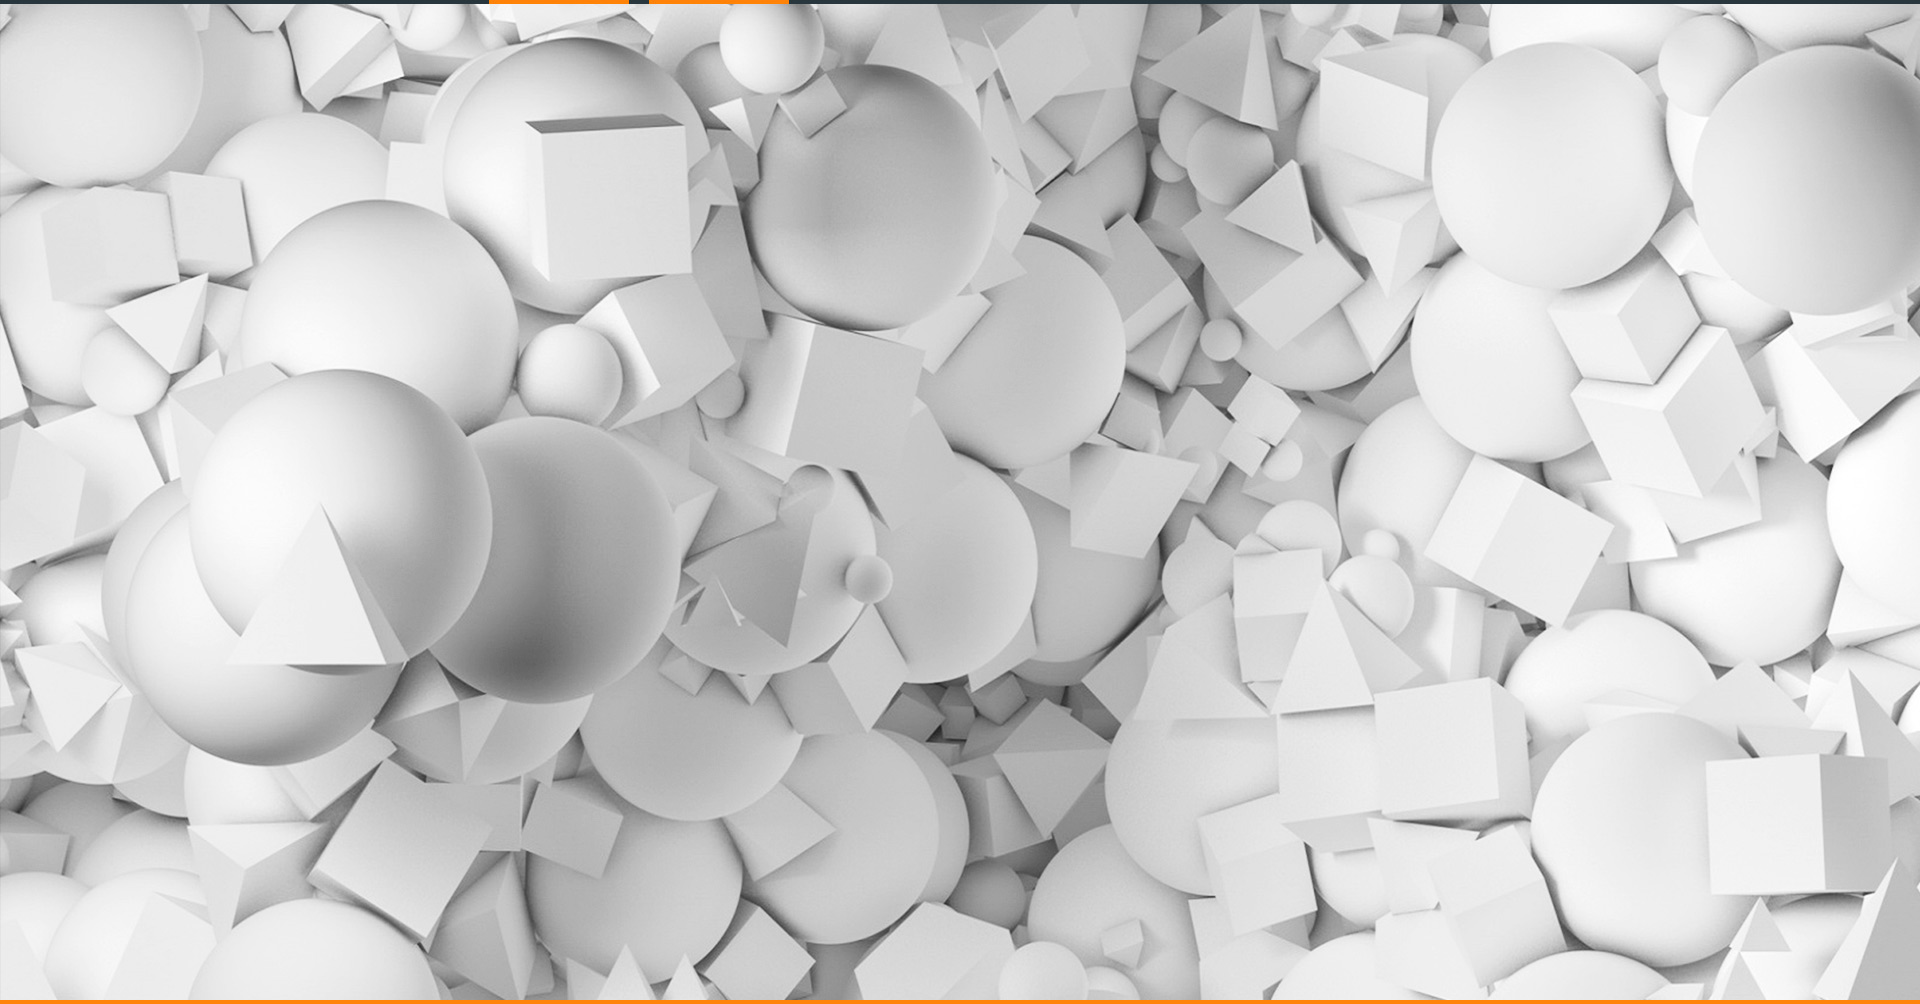
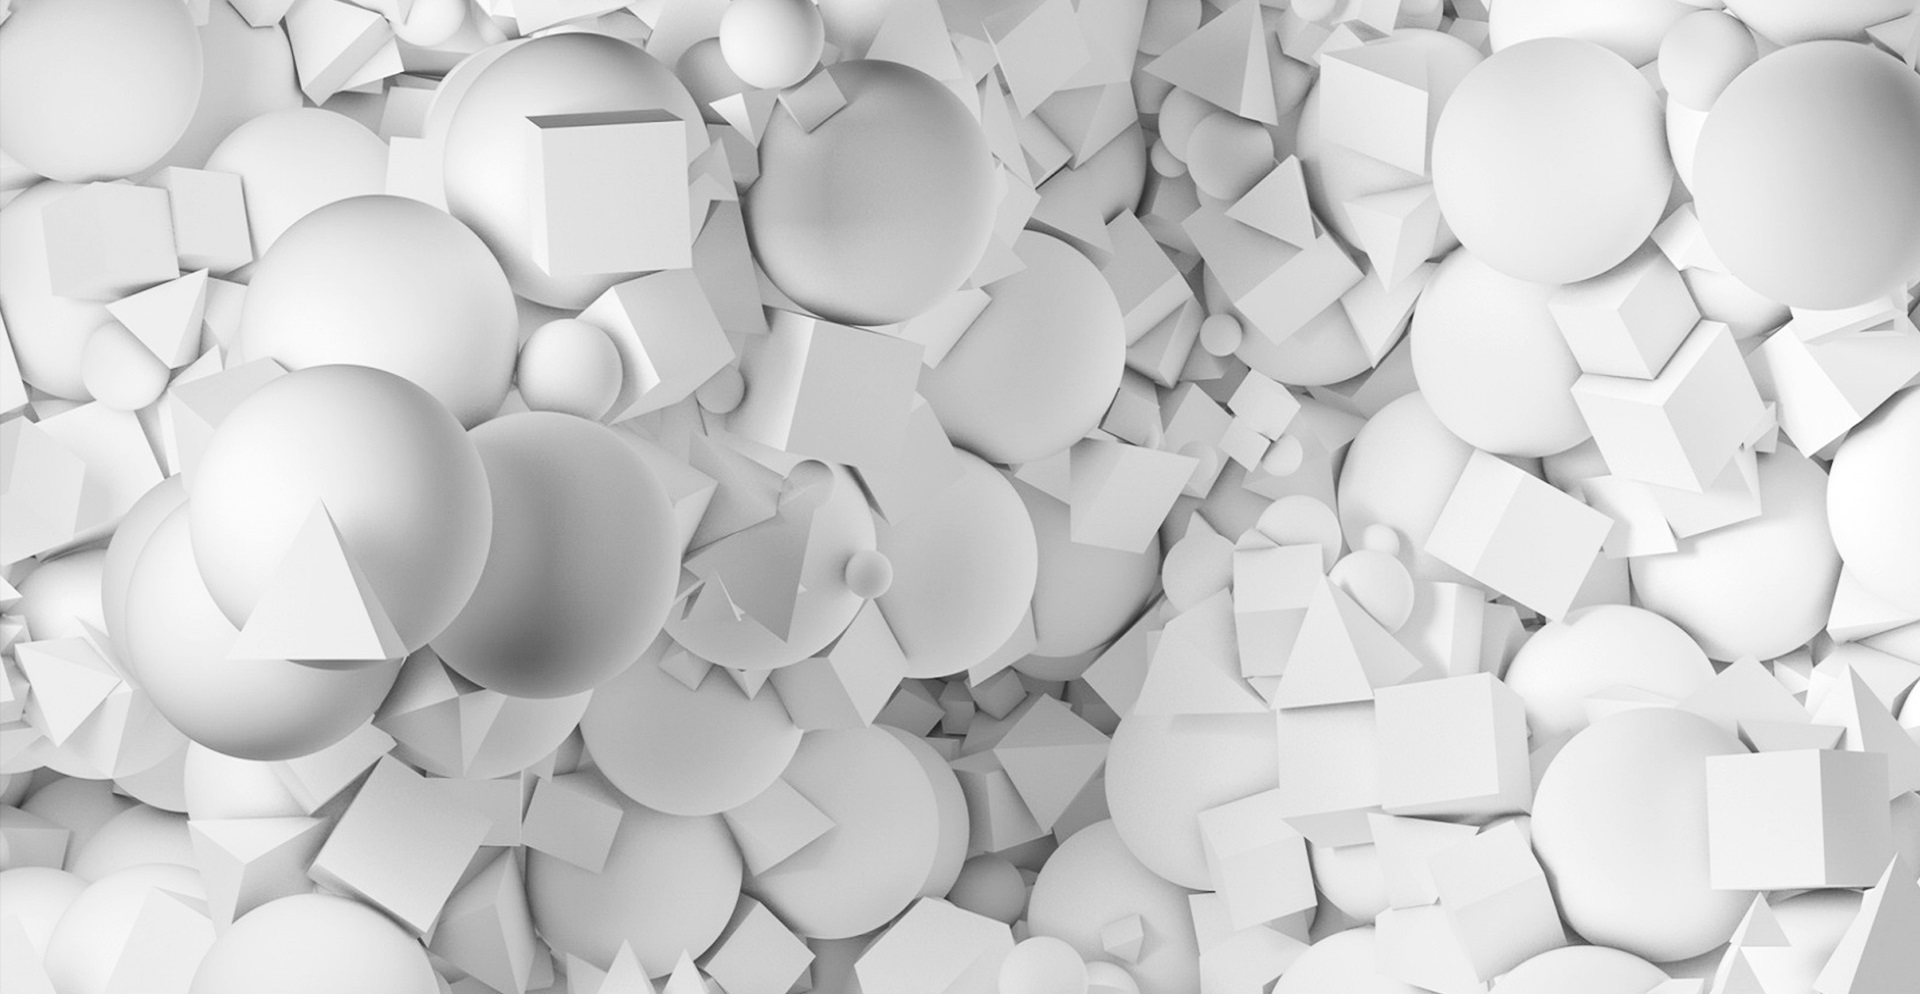
добавила картинки, позиционирование

diff --git a/style.less b/style.less
@@ -22,6 +22,10 @@ body{
 header, footer{
   background-color: @dark;
   color: @texts_on_dark_phone;
+  position: relative;
+}
+header{
+  border-bottom: 4px solid @dark;
 }
 header a, footer a{
   color: @texts_on_dark_phone;
@@ -57,6 +61,9 @@ h5{
   font-size: 16px;
   text-align: center;
 }
+footer h5{
+  color: @texts_on_dark_phone;
+}
 p{
   font-size: 18px;
 }
@@ -76,6 +83,20 @@ ul{
   margin: 0;
   padding: 0;
 }
+li{
+  list-style: none;
+  width: 140px;
+  height: 115px;
+}
+li a{
+  display: block;
+  width: 100%;
+  height: 100%;
+}
+header li a:hover, header li a:active{
+  background-color: @hover_blocks;
+  border-bottom: 4px solid @orange;
+}
 form{
   display: flex;
   flex-direction: column;
@@ -83,13 +104,19 @@ form{
 }
 .slider{
   text-transform: uppercase;
+  position: relative;
 }
 .subtitle {
   text-align: center;
+  max-width: 780px;
+  margin: auto;
 }
 .container{
   margin: 0 auto;
   max-width: 1510px;
+  text-align: center;
+}
+main .container{
   padding: 60px;
 }
 .flex-boxes{
@@ -97,6 +124,7 @@ form{
   flex-direction: row;
   justify-content: space-between;
   flex-wrap: wrap;
+  align-items: center;
 }
 .copyright{
   background-color: @copyright;
@@ -110,6 +138,11 @@ form{
 .one-advantage{
   width:280px;
 }
+.on_top{
+  position: absolute;
+  right: 10%;
+  top:-65px;
+}
 #our_work{
   background-color: @light;
   background-image: url("images/Landing_tech_03.jpg");
@@ -120,4 +153,39 @@ form{
 }
 #general_slider{
   background-image: url("images/Landing_tech_02.jpg");
+}
+footer section{
+  background-image: url("images/Landing_tech_05.png");
+}
+footer .address p, footer .address h5{
+  text-align: right;
+}
+.make_request{
+  background-color: @orange;
+  width: 400px;
+  height: 80px;
+  border-radius: 10px;
+  display: block;
+  color: @texts_on_dark_phone;
+  text-transform: uppercase;
+  font-weight: bold;
+  font-size: 24px;
+  margin: auto;
+}
+#general_slider .slider::before, #general_slider .slider::after{
+  content: '';
+  width:45px;
+  height: 80px;
+  display: block;
+  position: absolute;
+}
+#general_slider .slider::before{
+  background-image: url("images/Landing_tech_07.png");
+  left:100px;
+  top:40%;
+}
+#general_slider .slider::after{
+  background-image: url("images/Landing_tech_09.png");
+  right: 100px;
+  top:40%;
 }

diff --git a/index.html b/index.html
@@ -15,7 +15,7 @@
         </a>
         <nav>
            <ul class="flex-boxes">
-             <li><a href="#on_top">Главная</a></li>
+             <li><a href="index.html">Главная</a></li>
              <li><a href="#our_work">Портфолио</a></li>
              <li><a href="#our_advantares">Преимущества</a></li>
              <li><a href="#our_advantares">Схема работы</a></li>
@@ -38,7 +38,7 @@
             <p class="subtitle">Lorem ipsum dolor sit amet, consectetur adipisicing
               elit, sed do eiusmod tempor incididunt
               ut labore et doloremagna aliqua</p>
-            <a href="#">оформить заявку</a>
+            <a href="#" class="make_request">оформить заявку</a>
           </div>
           <div class="slider-dotes">
             <div>1</div>
@@ -48,7 +48,9 @@
             <div>5</div>
           </div>
           <div class="nav-down">
-            >
+            <a href="#our_work"  title="перейти вниз">
+              <img src="images/Landing_tech_14.png" alt="кнопка вниз">
+            </a>
           </div>
         </div>
       </article>
@@ -180,7 +182,9 @@
       </article>
     </main>
     <footer>
-      <a href="#on_top"  title="перейти наверх страницы">></a>
+      <a href="#on_top"  title="перейти наверх страницы" class="on_top">
+        <img src="images/Landing_tech_06.png" alt="наверх" title="перейти наверх страницы">
+      </a>
       <section>
         <div class="container flex-boxes">
           <div>
@@ -208,9 +212,9 @@
         </div>
       </section>
       <div class="copyright">
-         <small class="container">
+         <div class="container">
            <a href="#">Copyrights <time>2015</time> © Webcom Media</a>
-        </small>
+        </div>
      </div>
     </footer>
   </body>
